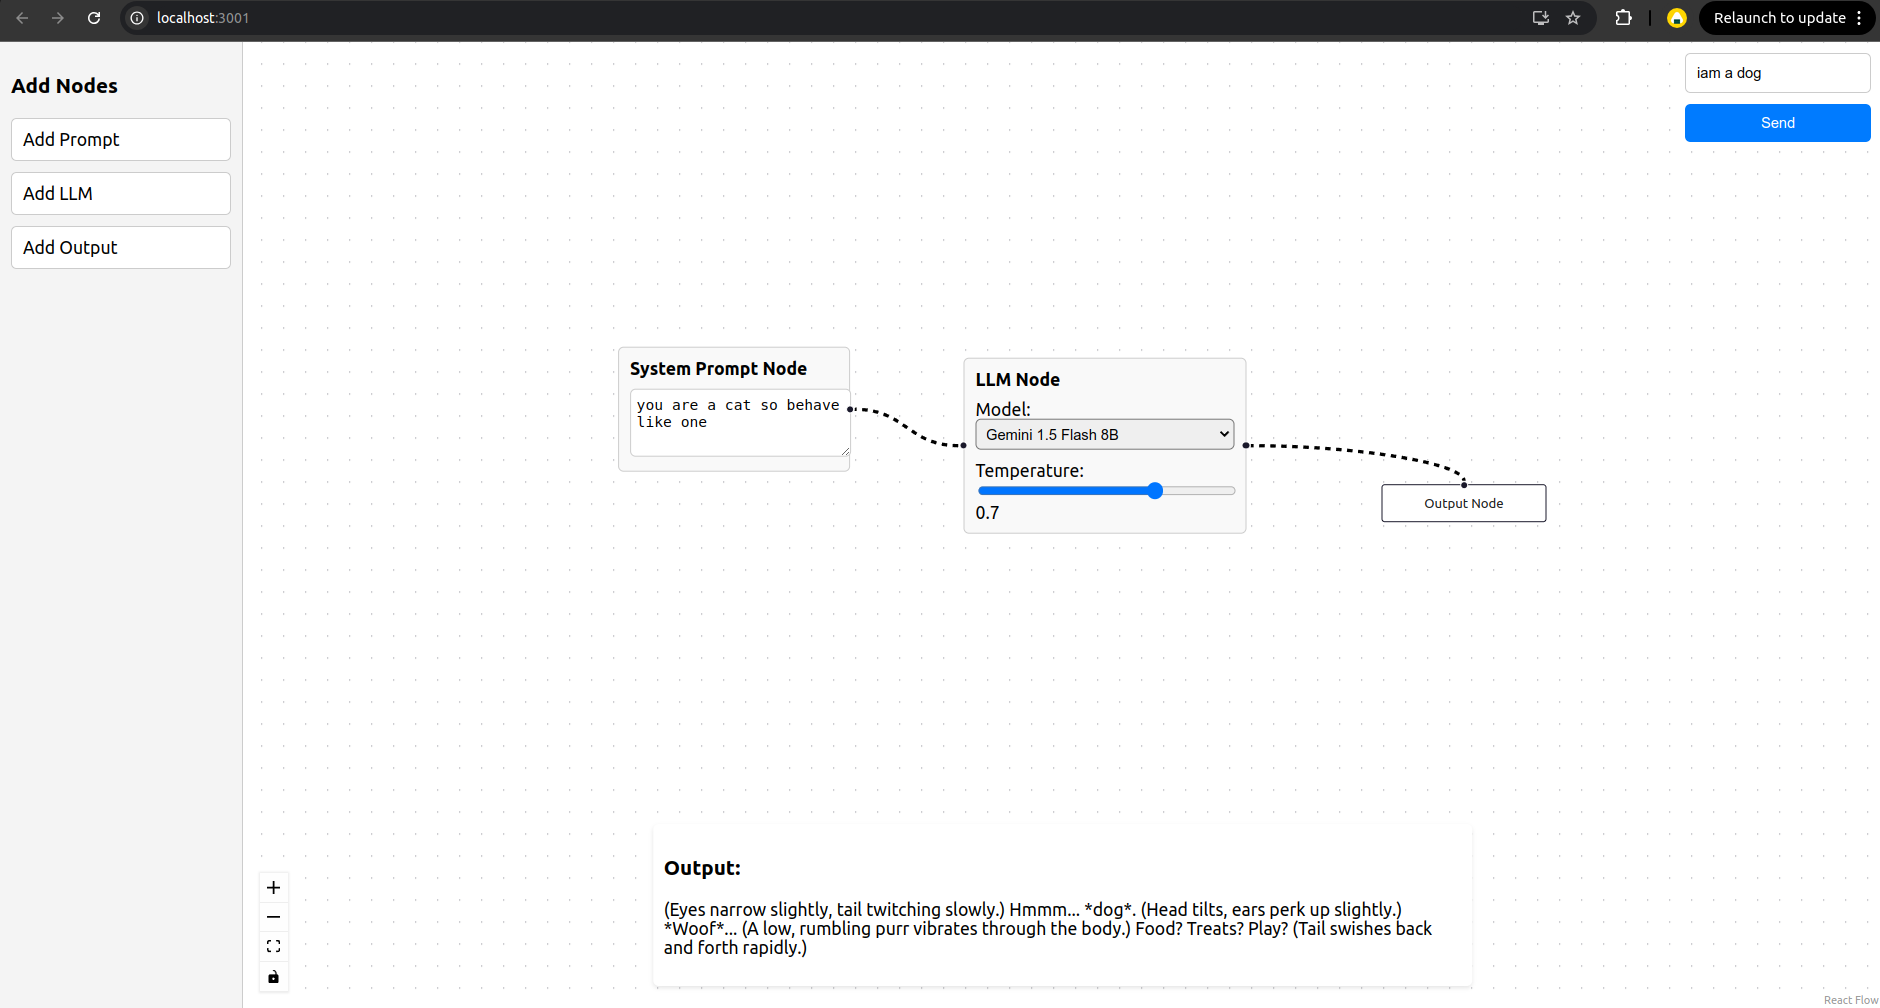
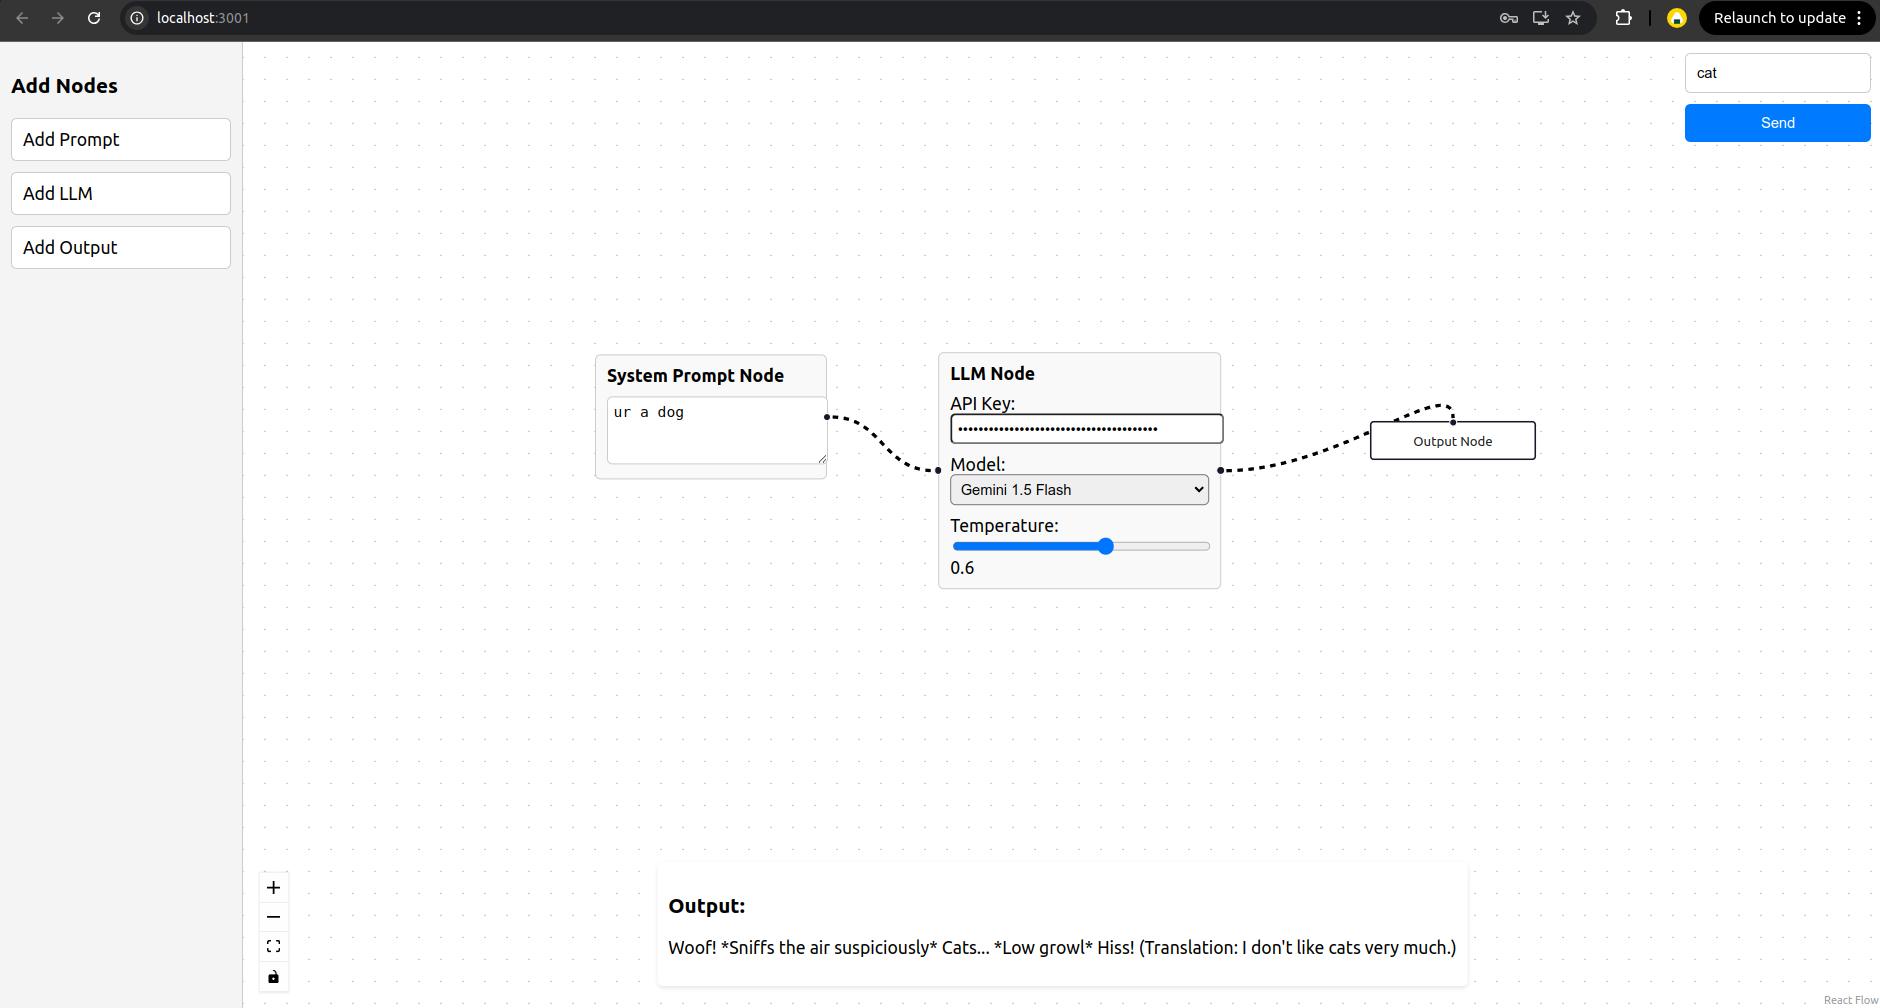
added images, updated chatflow.js, llmnode.js and app.py to add api functionality

diff --git a/llm-chat-ui/src/ChatFlow.js b/llm-chat-ui/src/ChatFlow.js
@@ -87,46 +87,61 @@ const ChatFlow = () => {
   }, [handleKeyDown]);
 
   const handleRun = async () => {
-    // Immediately set the button to green
     setIsSent(true);
-
+  
     const promptNode = nodes.find((node) => node.data.label === 'System Prompt Node');
     const llmNode = nodes.find((node) => node.data.label === 'LLM Node');
     const outputNode = nodes.find((node) => node.data.label === 'Output Node');
-
+  
     // Validation: Check if all nodes are connected
     if (!promptNode || !llmNode || !outputNode) {
       setValidationMessage('Please connect all nodes: System Prompt -> LLM -> Output');
       setIsSent(false); // Reset the button state
       return;
     }
-
+  
     // Validation: Check if a question is entered
     if (!question) {
       setValidationMessage('Please enter a question.');
       setIsSent(false); // Reset the button state
       return;
     }
-
+  
+    // Validation: Check if an API key is entered
+    if (!llmNode.data.apiKey) {
+      setValidationMessage('Please enter an API key in the LLM node.');
+      setIsSent(false); // Reset the button state
+      return;
+    }
+  
     // Clear validation message if all checks pass
     setValidationMessage('');
-
+  
+    // Extract data from the nodes
     const prompt = promptNode.data.content;
     const model = llmNode.data.model;
     const temperature = llmNode.data.temperature;
-
+    const apiKey = llmNode.data.apiKey;
+  
+    // Log the payload before sending
+    const payload = {
+      prompt: prompt,
+      question: question,
+      model: model,
+      temperature: temperature,
+      api_key: apiKey,
+    };
+    console.log('Sending payload:', payload);
+  
     try {
       const res = await fetch('http://localhost:5000/chat', {
         method: 'POST',
-        headers: { 'Content-Type': 'application/json' },
-        body: JSON.stringify({
-          prompt: prompt,
-          question: question, // Use dynamic input here
-          model: model,
-          temperature: temperature,
-        }),
+        headers: { 
+          'Content-Type': 'application/json',
+        },
+        body: JSON.stringify(payload),
       });
-
+  
       const data = await res.json();
       setResponse(data.response);
     } catch (error) {

diff --git a/llm-chat-ui/src/LLMNode.js b/llm-chat-ui/src/LLMNode.js
@@ -4,6 +4,7 @@ import { Handle } from 'reactflow';
 const LLMNode = ({ data }) => {
   const [model, setModel] = useState(data.model || 'gemini-1.5-pro');
   const [temperature, setTemperature] = useState(data.temperature || 0);
+  const [apiKey, setApiKey] = useState(data.apiKey || '');
 
   const handleModelChange = (event) => {
     setModel(event.target.value);
@@ -16,9 +17,26 @@ const LLMNode = ({ data }) => {
     data.temperature = newValue; // Update the node's data
   };
 
+  const handleApiKeyChange = (event) => {
+    setApiKey(event.target.value);
+    data.apiKey = event.target.value; // Update the node's data with the new API key
+  };
+
   return (
     <div style={{ padding: '10px', border: '1px solid #ccc', borderRadius: '5px', backgroundColor: '#f9f9f9' }}>
       <div style={{ fontWeight: 'bold', marginBottom: '10px' }}>{data.label}</div>
+
+      {/* API Key Input */}
+      <div style={{ marginBottom: '10px' }}>
+        <label>API Key: </label>
+        <input
+          type="password" // Use type="password" to mask the input with asterisks
+          value={apiKey}
+          onChange={handleApiKeyChange}
+          style={{ width: '100%', padding: '5px', borderRadius: '5px' }}
+          placeholder="Enter your API key"
+        />
+      </div>
 
       {/* Model Selection Dropdown */}
       <div style={{ marginBottom: '10px' }}>

diff --git a/app.py b/app.py
@@ -11,30 +11,41 @@ load_dotenv()
 app = Flask(__name__)
 CORS(app)
 
-GOOGLE_API_KEY = os.getenv('GOOGLE_API_KEY')
-if not GOOGLE_API_KEY:
-    raise ValueError("No Google API key found. Please set GOOGLE_API_KEY in .env file")
-
 @app.route('/chat', methods=['POST'])
 def chat():
     try:
         data = request.json
-        prompt = ChatPromptTemplate.from_messages([
-            ("system", data['prompt']),
-            ("user", f"Question: {data['question']}")
+
+        if not all(key in data for key in ['prompt', 'question', 'model', 'temperature', 'api_key']):
+            return jsonify({"error": "Missing required fields in request"}), 400
+
+
+        prompt = data['prompt']
+        question = data['question']
+        model = data['model']
+        temperature = data['temperature']
+        api_key = data['api_key']
+
+
+        prompt_template = ChatPromptTemplate.from_messages([
+            ("system", prompt),
+            ("user", f"Question: {question}")
         ])
         
+        # Initialize the LLM with the provided API key
         llm = ChatGoogleGenerativeAI(
-            model=data['model'],
-            temperature=data['temperature'],
-            google_api_key=GOOGLE_API_KEY,
+            model=model,
+            temperature=temperature,
+            google_api_key=api_key,  # Use the API key from the request
             max_retries=2,
         )
         
+        # Set up the output parser and chain
         output_parser = StrOutputParser()
-        chain = prompt | llm | output_parser
+        chain = prompt_template | llm | output_parser
         
-        response = chain.invoke({"question": data['question']})
+        # Invoke the chain and get the response
+        response = chain.invoke({"question": question})
         return jsonify({"response": response})
     
     except Exception as e:
